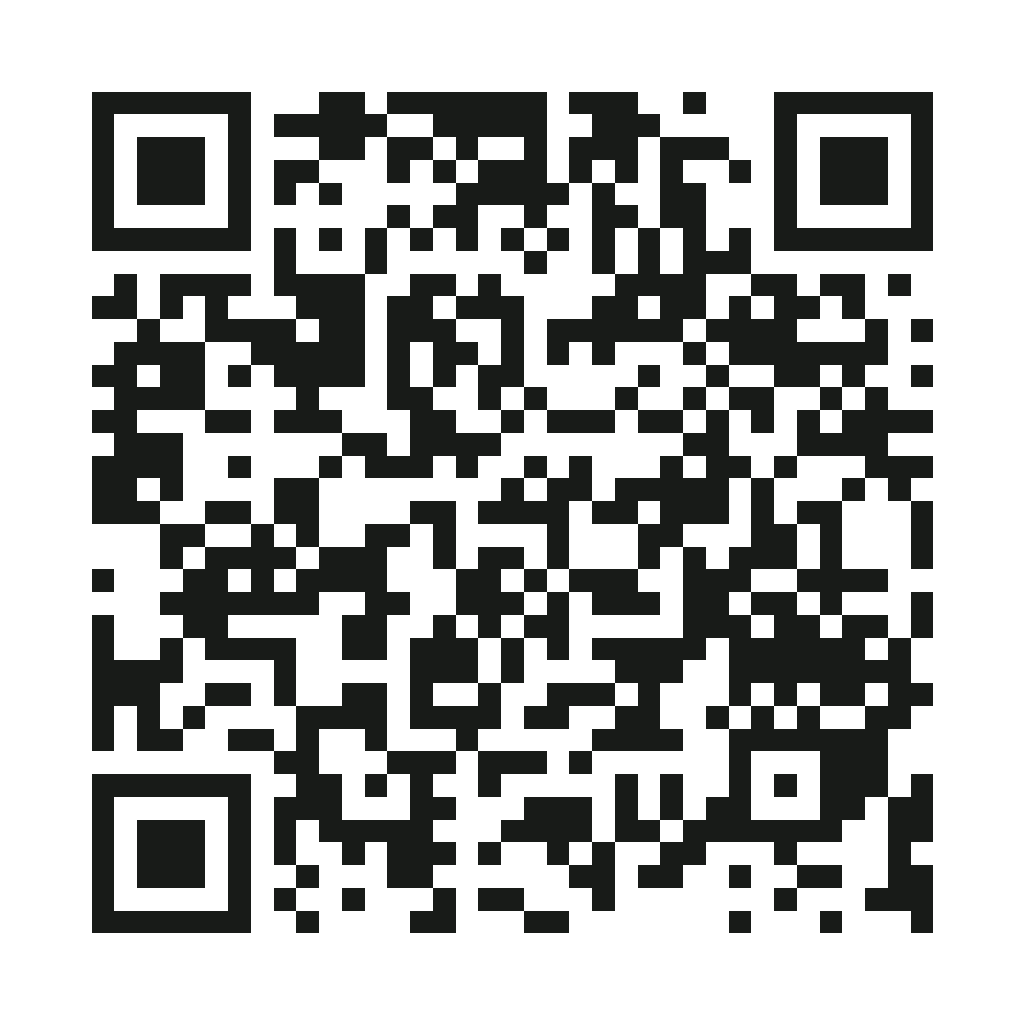
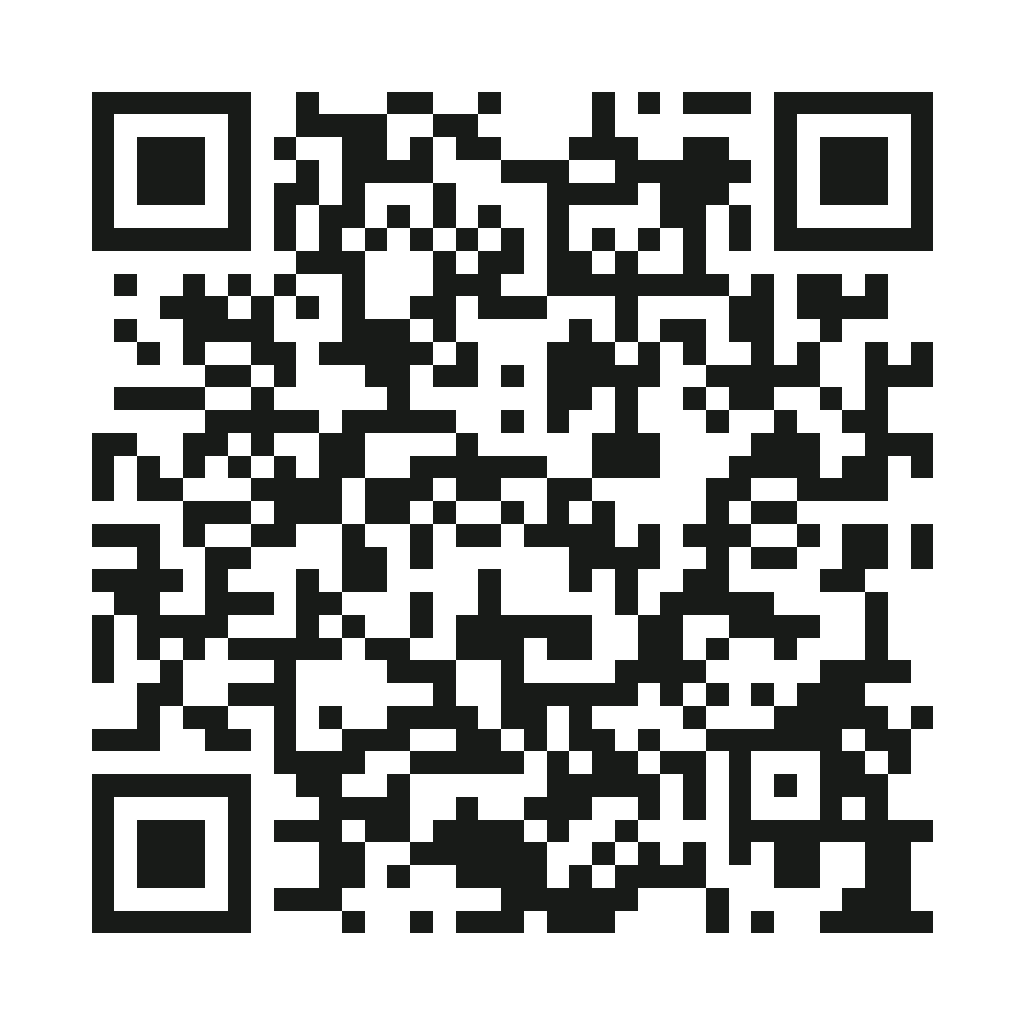
/v2/ is the main invitation: QR, README and AGENTS.md say so
- output/qr regenerated for https://coldzero94.github.io/wedding_invitation/v2/
  (it pointed to /, the classic page); PNG and SVG decode to /v2/.
- README: the addresses table puts /v2/ first as the invitation guests get,
  the QR section uses /v2/, and the AGENTS.md link is gone (README is the
  couple's guide; agent instructions stay in AGENTS.md).
- AGENTS.md: the photos-inbox rules written out (what npm run photos does,
  the naming and order, renumbering and the movie.ts numbers to update, the
  parking and family subfolders, don't touch the originals).

Changed region(s): [[0.0625, 0.0625, 0.9375, 0.9375], [0.6875, 0.0625, 0.75, 0.125]]

diff --git a/AGENTS.md b/AGENTS.md
@@ -100,15 +100,21 @@ The KakaoTalk in-app browser caches hard; if an old page shows, tell the user to
 ## Other folders
 
 - `research/`: research and mock-ups from the planning stage. Written for the classic edition, so parts differ from the current structure; reference only.
-- `output/qr/`: QR code from `npm run qr`, pointing to the root `/`. Guests now get `/v2/`, and the print page builds its own QR to `/v2/`. Make any new QR code for `/v2/`.
-- `README.md`: usage guide (adding photos, changing details). Partly written for the classic edition.
-- `photos-inbox/`: original photos (ignored by Git). `photos-inbox/family/` holds the family photo composite.
+- `output/qr/`: QR code from `npm run qr -- https://coldzero94.github.io/wedding_invitation/v2/`, pointing to `/v2/` (regenerated 2026-10-17; it used to point to `/`). The paper invitation builds its own QR to `/v2/`. Any QR code for guests points to `/v2/`, never `/`.
+- `README.md`: Korean usage guide for the couple (addresses, adding photos, changing details). Partly written for the classic edition. Keep agent instructions here in AGENTS.md, not in README.
 
-## Photos
+## Photos and `photos-inbox/`
 
-- The gallery has 32 photos (`src/assets/gallery/01.jpg` onwards). 01 is the main photo, also used on the cover and the paper front.
-- `src/assets/photos/hero.jpg`, `og.jpg` and `kakao.jpg` are for the classic cover and the share cards (the Kakao image is 3:4).
-- The family photo composites (`가족사진_합성.jpg`, and `가족사진_투명배경.png` with a transparent background) exist only in `photos-inbox/family/` (ignored by Git).
+`photos-inbox/` (ignored by Git) holds the originals. Originals carry GPS data and must never be committed; only the prepared copies go into `src/assets`.
+
+- **Gallery source:** the 32 top-level image files in `photos-inbox/`, named `NN-label-originalname.ext` (e.g. `01-main-laugh.jpeg`, `05-casual-MGA_9878.jpg`). The name order (numeric) is the gallery order. Only top-level files are used; subfolders are skipped.
+- **`npm run photos`:** rotates by EXIF, fits the long side to 2560 px, saves JPEG (quality 85), strips all metadata including GPS, converts HEIC (macOS only), then **replaces the whole gallery** with `src/assets/gallery/01.jpg`… It builds everything before replacing, so a failure leaves the gallery untouched.
+- **Renumbering:** adding, removing or reordering photos renumbers the gallery. Then update the photo numbers in `movie.ts` (`cover.photo`, `stripTop`, `stripBottom`, `poster`, `cookie`) and any `gallery` overrides in `wedding.ts`, and re-check the cover, the film strips and the paper front.
+- **01 is the main photo:** used for the movie cover (`movie.cover.photo`), the paper front, and first in the gallery. Its original is 1200 x 1800.
+- **`photos-inbox/parking/`:** originals of the two parking guide images; the prepared copies are `src/assets/parking/01-notice.jpg` and `02-route.jpg` (background matched to the site's ivory).
+- **`photos-inbox/family/`:** two family photos and their composites (`가족사진_합성.jpg`; `가족사진_투명배경.png` with a transparent background) for the planned 상견례 page. Not used on the site.
+- **Classic cover and share images:** `src/assets/photos/hero.jpg` (`npm run photos -- --hero <file>`), `og.jpg` and `kakao.jpg` (the Kakao image is 3:4).
+- Don't delete or rename files in `photos-inbox/` without asking: it is the only copy of the originals on this machine besides the couple's phones.
 
 ## In progress or awaiting a decision
 

diff --git a/README.md b/README.md
@@ -2,9 +2,17 @@
 
 선택한 [Concept 01 사진 앨범 v2](research/mockups/concept-01-photo-album-v2.png)를 바탕으로 만든 Astro 정적 사이트입니다. 동영상 없이 사진과 글로 구성합니다.
 
-[배포된 미리보기](https://coldzero94.github.io/wedding_invitation/) · [공개 저장소](https://github.com/coldzero94/wedding_invitation) · [배포·QR 기록](research/deployment.md) · [에이전트 작업 안내(AGENTS.md, 영어)](AGENTS.md)
+[배포된 미리보기](https://coldzero94.github.io/wedding_invitation/) · [공개 저장소](https://github.com/coldzero94/wedding_invitation) · [배포·QR 기록](research/deployment.md)
 
-실제 이름·일정·장소·부모님 성함·양가 계좌와 웨딩 사진 32장을 넣어 발송용(release)으로 배포하고 있습니다. 기본 버전은 `/`, 영화관 콘셉트 버전은 `/v2/`에 있고 두 버전은 `src/data/wedding.ts`를 함께 씁니다. 같은 콘셉트의 4x6 지류 청첩장 인쇄용 페이지는 `/v2/print/`입니다.
+실제 이름·일정·장소·부모님 성함·양가 계좌와 웨딩 사진 32장을 넣어 발송용(release)으로 배포하고 있습니다.
+
+| 주소 | 내용 |
+| --- | --- |
+| [`/v2/`](https://coldzero94.github.io/wedding_invitation/v2/) | **하객에게 보내는 메인 청첩장**(영화관 콘셉트). 공유 링크와 QR은 이 주소를 씁니다. |
+| [`/v2/print/`](https://coldzero94.github.io/wedding_invitation/v2/print/) | 같은 콘셉트의 4x6 지류 청첩장 인쇄용 페이지 |
+| [`/`](https://coldzero94.github.io/wedding_invitation/) | 처음 만든 클래식 버전(`v1-classic` 태그로 고정) |
+
+두 모바일 버전은 `src/data/wedding.ts`를 함께 씁니다. 아래 안내 중 표지·사진 배치 설명은 클래식 버전 기준인 부분이 있습니다.
 
 ## 로컬 실행
 
@@ -116,12 +124,12 @@ gh workflow run deploy.yml --repo coldzero94/wedding_invitation --ref main -f mo
 
 ## QR 생성
 
-현재 배포 주소로 QR을 생성했습니다. 다시 생성하려면 다음 명령을 사용합니다.
+메인 청첩장 주소(`/v2/`)로 QR을 생성했습니다. 다시 생성하려면 다음 명령을 사용합니다. 지류 청첩장 뒷면의 QR은 인쇄용 페이지가 빌드할 때 같은 주소로 따로 만듭니다.
 
 ```sh
-npm run qr -- https://coldzero94.github.io/wedding_invitation/
+npm run qr -- https://coldzero94.github.io/wedding_invitation/v2/
 ```
 
-[SVG](output/qr/invitation.svg) · [PNG](output/qr/invitation.png) · [원본 URL](output/qr/url.txt)을 저장했습니다. PNG를 디코딩해 배포 주소와 일치하는지 확인했습니다. 현재 연결되는 내용은 샘플이며 실제 인쇄물 스캔 검증은 별도로 필요합니다. 외부 QR 서비스는 사용하지 않습니다.
+[SVG](output/qr/invitation.svg) · [PNG](output/qr/invitation.png) · [원본 URL](output/qr/url.txt)을 저장했습니다. PNG와 SVG를 디코딩해 `/v2/` 주소와 일치하는지 확인했습니다(2026-10-17). 실제 인쇄물 스캔 검증은 별도로 필요합니다. 외부 QR 서비스는 사용하지 않습니다.
 
 [조사 문서](research/README.md) · [사진 생성 기록](research/mockups/site-assets.md)
